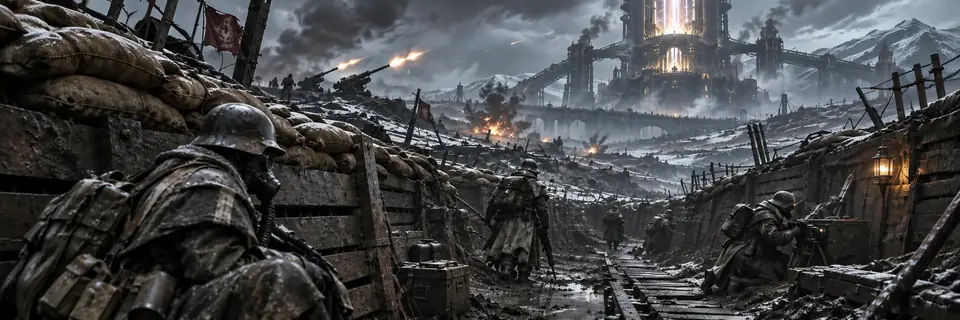
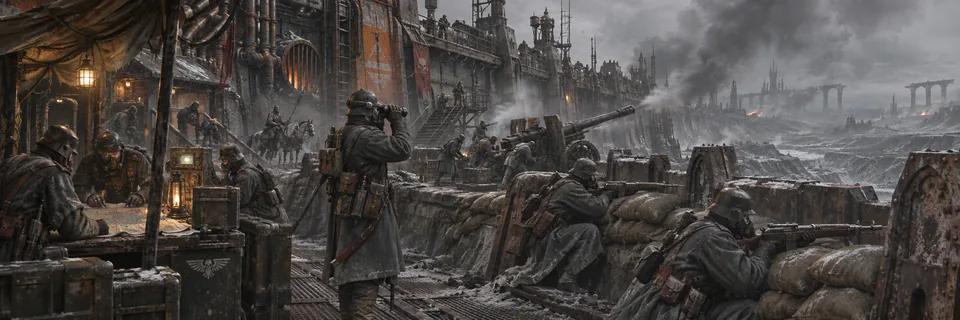
Replace Volume VII Krieg retreat illustration with approved battlefield scene

diff --git a/severed-ember/index.html b/severed-ember/index.html
@@ -890,7 +890,7 @@ M42的监听簿里，十三秒的引力脉冲仍在。</p>
 <div class="subhero cornered"><div class="sub-img" style="background-image:url('assets/chapter-banners-20261115/07-other-histories.webp')"></div><div class="sub-shade"></div><div class="sub-content"><div class="eyebrow">OTHER HISTORIES · VOLUME VII</div><h1>与其它势力的关系</h1><p>帝国友军、失落战团、未签收的文件，以及共同战争留下的不同证词。</p><a class="btn strong archive-entry" href="#codex-v07">阅读卷宗</a></div></div><nav class="codex-jumps v07-rel-nav" aria-label="第七卷目录"><section class="v07-rel-cluster"><strong>共同战区与往来</strong><div class="v07-rel-links"><a href="#codex-v07-h-4-2">克里格</a><a href="#codex-v07-h-4-3">机械教</a><a href="#codex-v07-h-4-8">死亡守望</a><a href="#codex-v07-h-4-9">灰骑士</a><a href="#codex-v07-h-4-10">战斗修女</a></div></section><section class="v07-rel-cluster"><strong>帝国关系与未结调查</strong><div class="v07-rel-links"><a href="#codex-v07-h-4-4">暗黑天使</a><a href="#codex-v07-h-4-5">其他第一军团血脉</a><a href="#codex-v07-h-4-6">帝国行政与国教</a><a href="#codex-v07-h-4-7">审判庭</a></div></section><section class="v07-rel-cluster"><strong>未确认接触</strong><div class="v07-rel-links"><a href="#codex-v07-h-4-11">灵族</a></div></section><section class="v07-rel-cluster"><strong>仇敌与警戒档案</strong><div class="v07-rel-links"><a href="#codex-v07-h-4-12">仇敌录</a><a href="#codex-v07-enemy-a">卡利基努斯</a><a href="#codex-v07-enemy-b">无情者克拉能</a><a href="#codex-v07-enemy-c">休伦·黑心</a><a href="#codex-v07-enemy-d">追迹牧师以撒亚</a><a href="#codex-v07-enemy-e">卡拉恩</a><a href="#codex-v07-enemy-f">萨拉米斯·熵炎</a><a href="#codex-v07-enemy-h">兽人军阀萨卡拉</a><a href="#codex-v07-enemy-i">恶魔王子瓦拉克·缚魂者</a><a href="#codex-v07-enemy-j">破碎圣言</a><a href="#codex-v07-enemy-g">沉默的观测者</a></div></section><section class="v07-rel-cluster"><strong>遗落的世界</strong><div class="v07-rel-links"><a href="#codex-v07-h-4-13">遗落的世界</a><a href="#codex-v07-lost-routes">断绝的航路</a><a href="#codex-v07-lost-avalon">阿瓦隆</a><a href="#codex-v07-lost-naram">纳拉姆</a></div></section></nav>
 <section class="lore-volume" id="codex-v07" data-integrated-volume="07"><div class="lore-volume-title"><span>卷 07 · 与其它势力的关系</span><a href="#reader">目录</a></div><article class="lore-paper"><div class="codex-body lore-prose"><h3 id="codex-v07-h-3-1">七、与其它势力的关系</h3>
 <h4 id="codex-v07-h-4-2">灰炉防线：克里格人的撤退令（约850.M41）</h4>
-<figure class="archive-plate chapter-context-art" data-approved-art="20261116-ash-furnace-line-user-selected"><a href="assets/editorial-20261116/v07-ash-furnace-retreat-20261116.webp" target="_blank" rel="noopener noreferrer" aria-label="查看灰炉防线 · 克里格人的撤退令通过版原画"><img src="assets/editorial-20261116/v07-ash-furnace-retreat-20261116.webp" alt="灰炉防线：积雪与泥泞覆盖的克里格战壕中，戴防毒面具的士兵在炮火下坚守，远处升起巨大哥特式设施与光柱" width="2048" height="682" loading="lazy" decoding="async" style="display:block;width:100%;height:auto;object-fit:contain" srcset="assets/editorial-20261116/v07-ash-furnace-retreat-20261116-mobile.webp 960w, assets/editorial-20261116/v07-ash-furnace-retreat-20261116.webp 1800w" sizes="(max-width:800px) 70vw, (max-width:1200px) 76vw, 60vw"></a><figcaption><strong>灰炉防线 · 克里格人的撤退令</strong></figcaption></figure>
+<figure class="archive-plate chapter-context-art" data-approved-art="20261128-ash-furnace-line-user-selected"><a href="assets/editorial-20261116/v07-ash-furnace-retreat-20261116.webp?v=20261128" target="_blank" rel="noopener noreferrer" aria-label="查看灰炉防线 · 克里格人的撤退令通过版原画"><img src="assets/editorial-20261116/v07-ash-furnace-retreat-20261116.webp?v=20261128" alt="克里格士兵在灰炉工业防线内侧依托沙袋和钢铁掩体坚守，死亡骑兵位于后方通道，远处荒原笼罩在烟尘中" width="2172" height="724" loading="lazy" decoding="async" style="display:block;width:100%;height:auto;object-fit:contain" srcset="assets/editorial-20261116/v07-ash-furnace-retreat-20261116-mobile.webp?v=20261128 960w, assets/editorial-20261116/v07-ash-furnace-retreat-20261116.webp?v=20261128 2172w" sizes="(max-width:800px) 70vw, (max-width:1200px) 76vw, 60vw"></a><figcaption><strong>灰炉防线 · 克里格人的撤退令</strong></figcaption></figure>
 
 <p><strong>〔灰炉北侧阵地·联军通信残片〕</strong></p>
 <p>第一夜，克里格人在矿渣里挖了三道战壕。第二道战壕的沙袋被炮风吹散，他们改用碎矿石。费尔萨姆-9送来的图纸没有标出塌陷的地层；一名工兵带着测距仪从废弃排水管道爬出来，另一人没有回来。</p>
